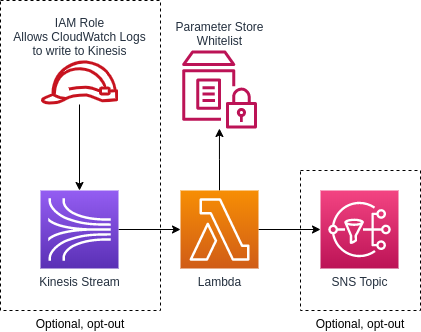
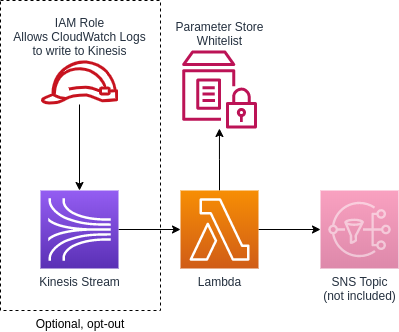
split out SNS from core, use topic module

diff --git a/README.md b/README.md
@@ -79,6 +79,24 @@ aws cloudformation deploy \
   --parameter-overrides <parameters>
 ```
 
+### Topic module
+
+Sets up an SNS topic for the core lambda or CloudWatch to publish to.
+
+![overview](./img/cloudwatch-topic-module.png)
+
+#### Configuration
+
+Nope.
+
+#### Deploy
+
+```sh
+aws cloudformation deploy \
+  --stack-name "<stackname>" \
+  --template-file ./cloudformation-templates/topic.yml
+```
+
 ### Sniffles Core
 
 ![overview](./img/core.png)
@@ -90,8 +108,8 @@ aws cloudformation deploy \
 `ExistingKinesisStream` - ARN  
 If you supply this, the Kinesis Stream and the CloudWatch role won’t be created, the lambda will instead be subscribed to the existing Kinesis Stream
 
-`ExistingSnsTopic` - ARN  
-If you supply this, The SNS Topic won’t be created, and the Lambda will publish to the existing SNS
+`SnsTopic` - ARN  
+The SNS Topic to publish to
 
 `WhitelistParameterStorePath` - String  
 Where in Parameter Store the lambda should look for the whitelist. The whitelist is a comma separated string of regular expressions. Any logs that match any of the regular expressions in the whitelist will be passed on the the SNS Topic. Any non-matching logs will be discarded.
@@ -242,24 +260,6 @@ aws cloudformation deploy \
   --template-file ./cloudformation-templates/log-subscriber.yml \
   --parameter-overrides <parameters> \
   --capabilities CAPABILITY_IAM
-```
-
-### CloudWatch topic module
-
-Sets up an SNS topic for CloudWatch to publish to.
-
-![overview](./img/cloudwatch-topic-module.png)
-
-#### Configuration
-
-Nope.
-
-#### Deploy
-
-```sh
-aws cloudformation deploy \
-  --stack-name "<stackname>" \
-  --template-file ./cloudformation-templates/cloudwatch-topic.yml
 ```
 
 ### Chatbot module
